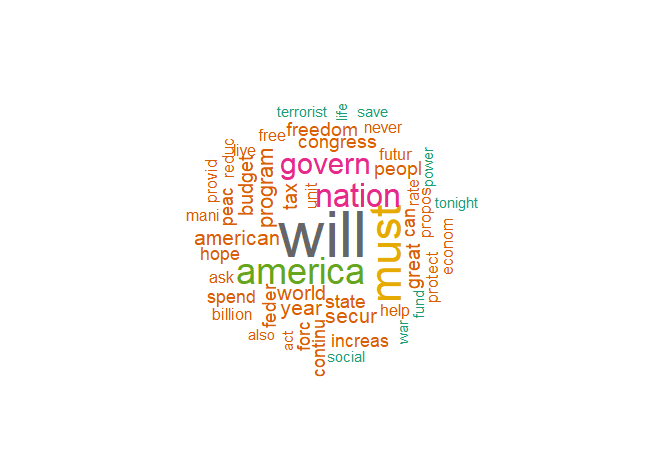
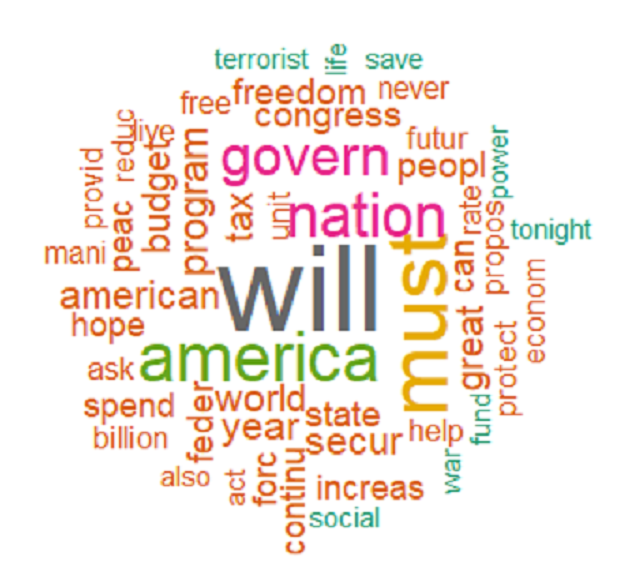
Updating README to fix images

Changed region(s): [[0.0597, 0.0601, 0.9545, 0.9914]]

diff --git a/README.md b/README.md
@@ -32,7 +32,7 @@ Net Sentiment (positive words - negative words) doesn't appear to have significa
 | N/A         | T-Stat                | -0.99  |
 | N/A         | P-Value               | 0.3218 |
 
-![Net Sentiment by Party](https://github.com/crcastillo/NLP_Explore/blob/master/Images/Net Sentiment by Party.png)
+![Net Sentiment by Party](https://raw.githubusercontent.com/crcastillo/NLP_Explore/master/Images/Net%20Sentiment%20by%20Party.png)
 
 Percent Sentiment (positive words / (positive words + negative words) ) indicates that Republicans use a significantly higher proportion of positive words (compared to negative words) compared to Democrats. The edge is realtively slight.
 
@@ -45,7 +45,7 @@ Percent Sentiment (positive words / (positive words + negative words) ) indicate
 | N/A         | T-Stat                | -0.99  |
 | N/A         | P-Value               | 0.3218 |
 
-![Percent Sentiment by Party](https://github.com/crcastillo/NLP_Explore/blob/master/Images/Percent Sentiment by Party.png)
+![Percent Sentiment by Party](https://raw.githubusercontent.com/crcastillo/NLP_Explore/master/Images/Percent%20Sentiment%20by%20Party.png)
 
 The 2-topic model trained since 1981 shows the following classification results:
 
@@ -59,6 +59,6 @@ Topic 1 categorizes Democrats pretty well, while Topic 2 categorizes Republican 
 
 The following wordclouds were generated for Democrats and Republicans and using the top 50 terms.
 
-![Democrat Wordcloud](https://github.com/crcastillo/NLP_Explore/blob/master/Images/Democrat Wordcloud.png)
+![Democrat Wordcloud](https://raw.githubusercontent.com/crcastillo/NLP_Explore/master/Images/Democrat%20Wordcloud.png)
 
-![Republican Wordcloud](https://github.com/crcastillo/NLP_Explore/blob/master/Images/Republican Wordcloud.png)
+![Republican Wordcloud](https://raw.githubusercontent.com/crcastillo/NLP_Explore/master/Images/Republican%20Wordcloud.png)
